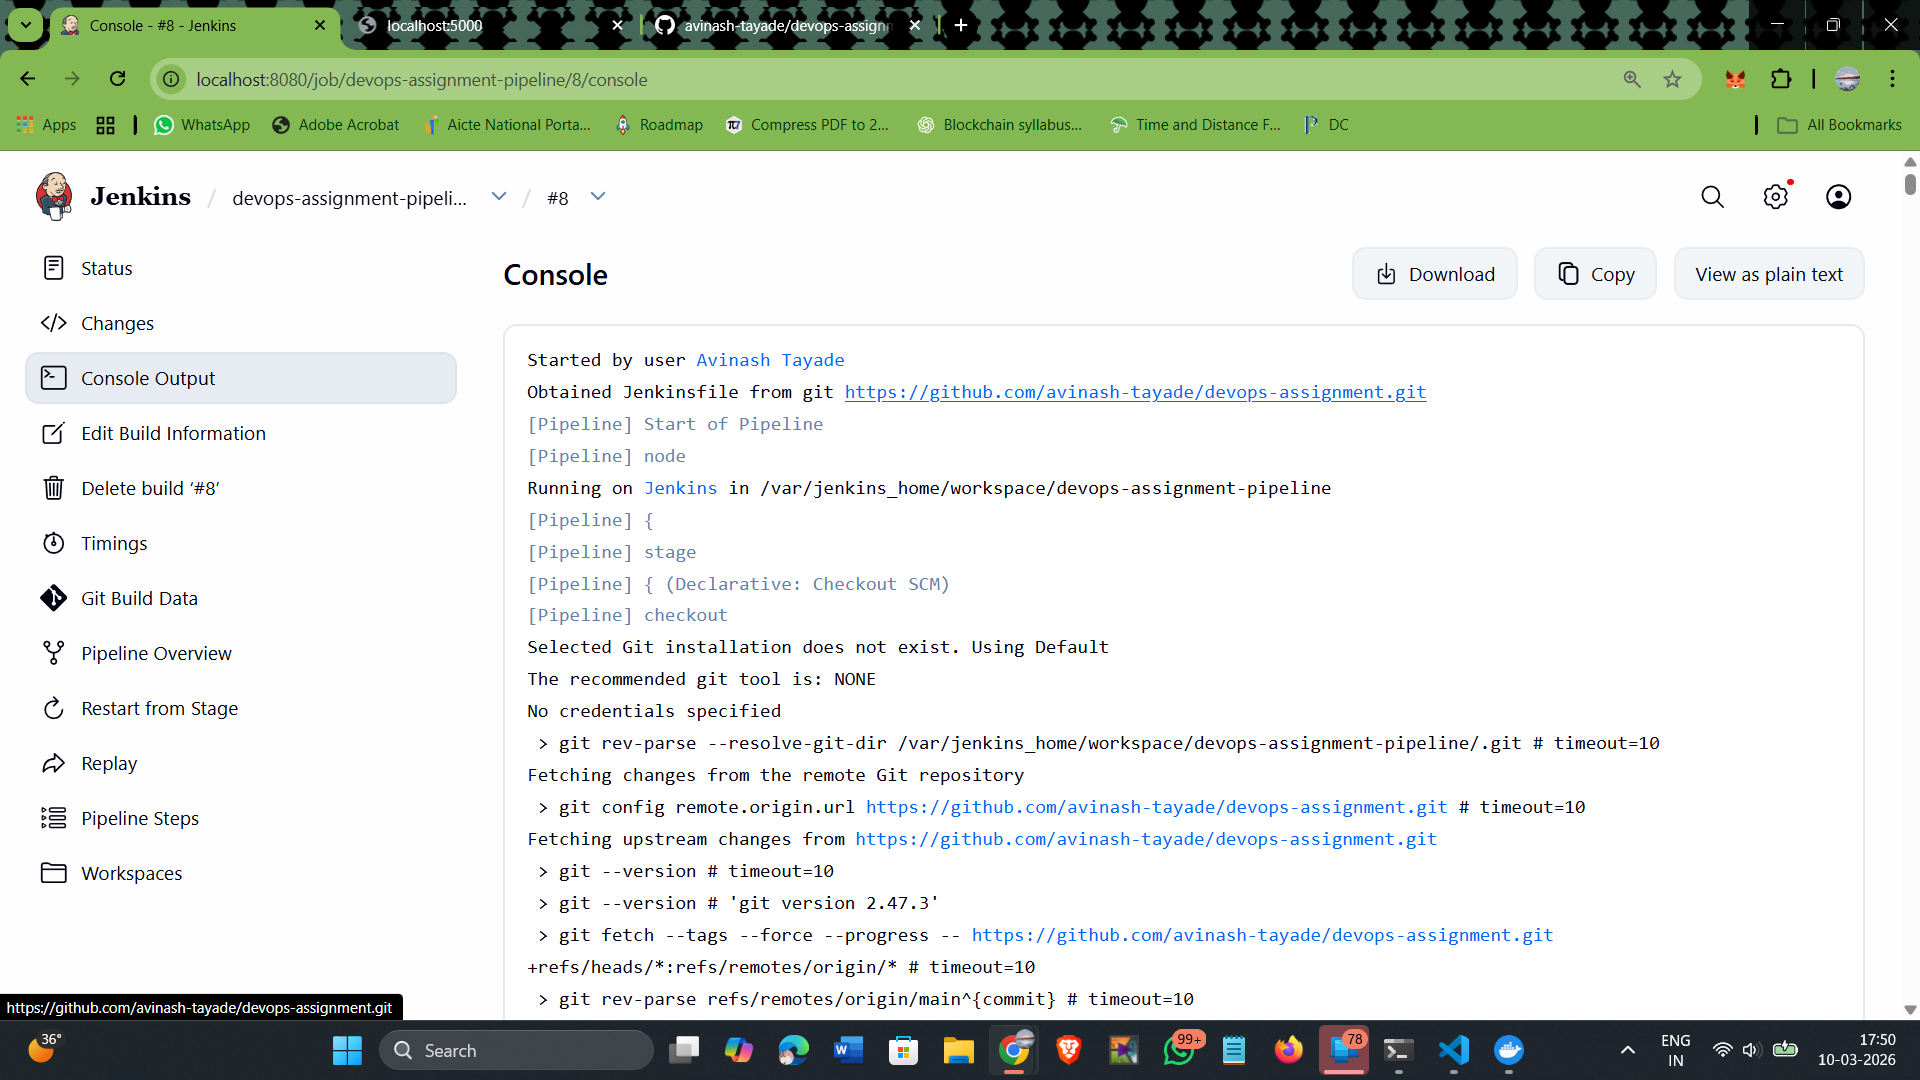
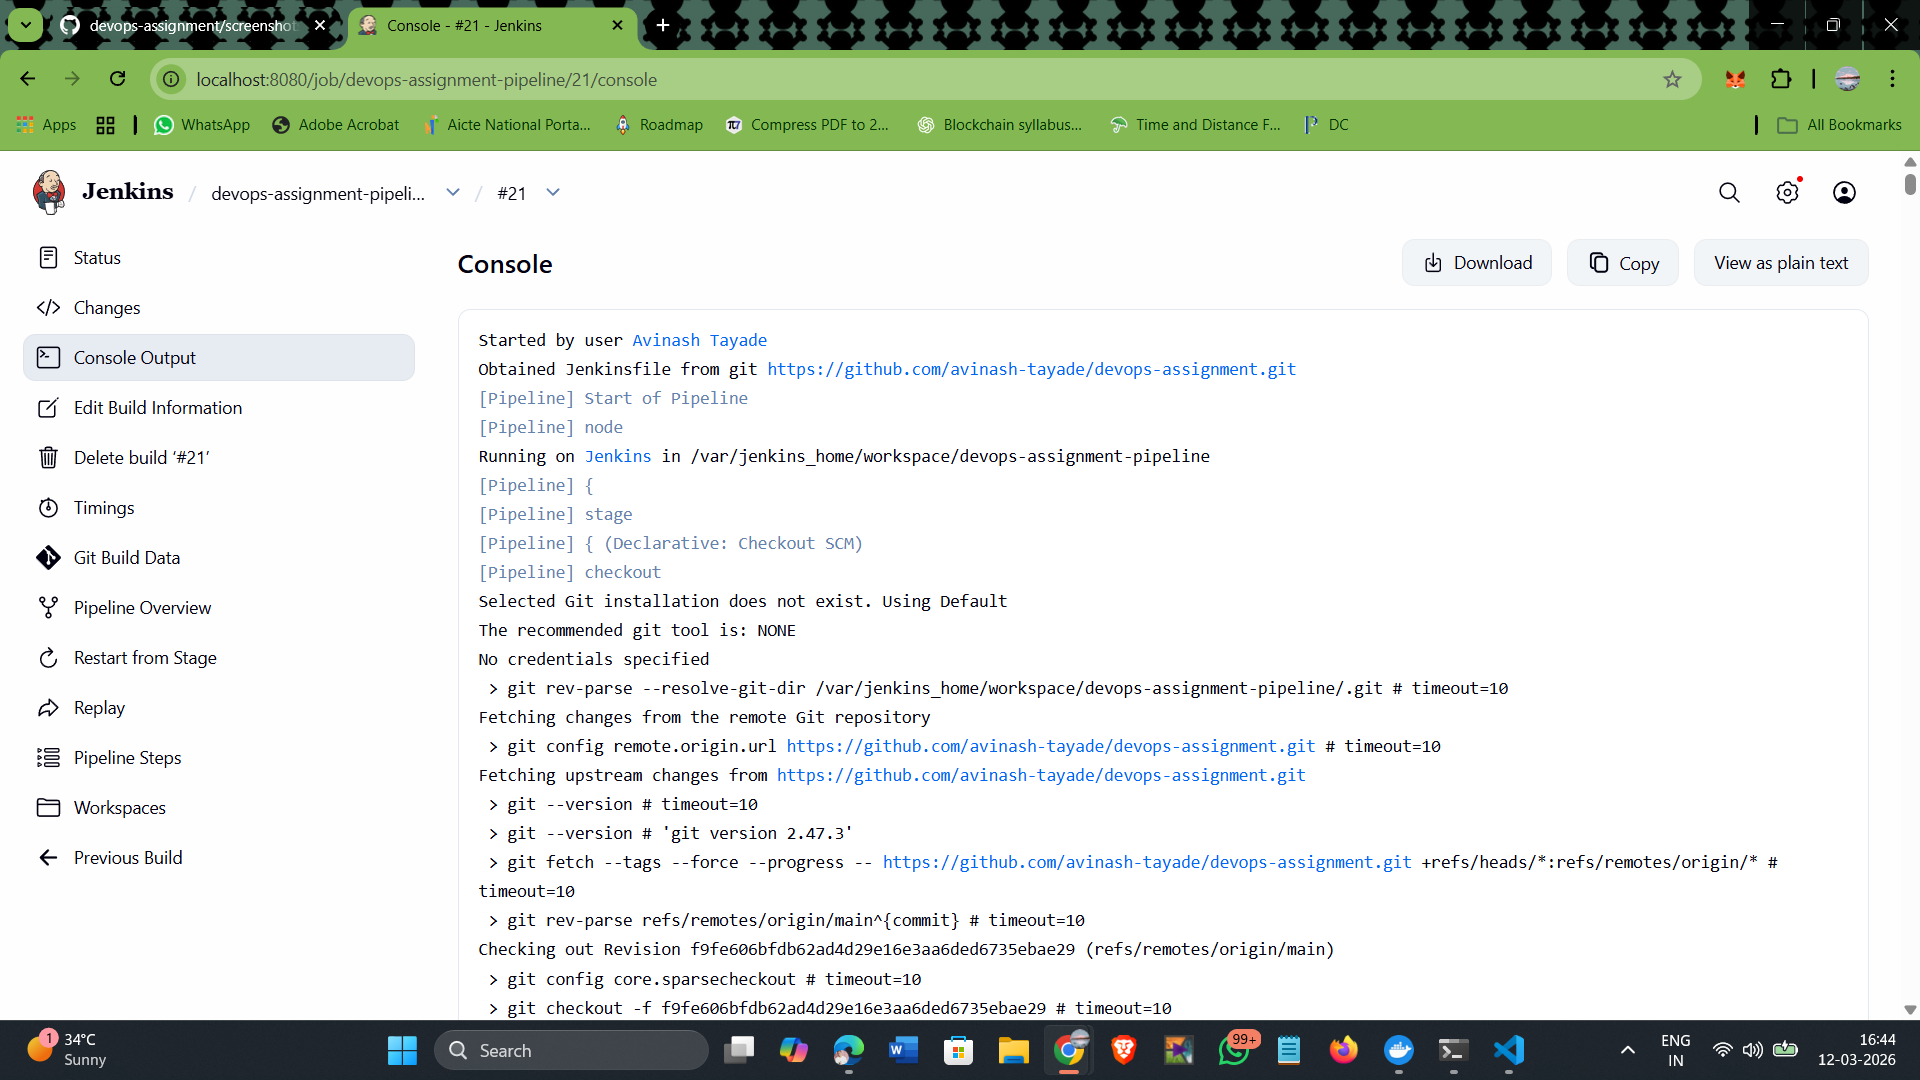
Updated README and added final project screenshots

diff --git a/README.md b/README.md
@@ -1,17 +1,28 @@
-# DevOps CI/CD Assignment
+# DevOps CI/CD Pipeline Assignment
 
 ## Project Overview
-This project demonstrates a complete DevOps pipeline that automates building, scanning, and deploying a containerized application using Jenkins, Docker, and Terraform. The application is deployed both locally using Docker and on a cloud environment using AWS.
 
-The objective of this project is to implement a CI/CD pipeline with automated security scanning and infrastructure provisioning.
+This project demonstrates a complete **DevOps CI/CD pipeline** that automates building, scanning, and deploying a containerized application using modern DevOps tools.
+
+The pipeline integrates **Docker, Jenkins, Terraform, AWS, and Trivy security scanning** to automate application deployment and infrastructure provisioning.
+
+The project includes:
+
+- Containerization using Docker
+- Continuous Integration and Deployment using Jenkins
+- Security scanning using Trivy
+- Infrastructure provisioning using Terraform
+- Cloud deployment on AWS EC2
 
 ---
 
-## Architecture
+# Architecture
+
+The overall system architecture is shown below:
 
 GitHub Repository  
 ↓  
-Jenkins Pipeline  
+Jenkins CI/CD Pipeline  
 ↓  
 Docker Image Build  
 ↓  
@@ -19,140 +30,244 @@ Trivy Security Scan
 ↓  
 Docker Container Deployment  
 ↓  
-Application Running (Localhost / Cloud)
+Terraform Infrastructure Provisioning  
+↓  
+AWS EC2 Instance  
+↓  
+Application Accessible via Public IP
 
 ---
 
-## Technologies Used
+# Technologies Used
 
-- Docker
-- Jenkins
-- Terraform
-- AWS EC2
-- Trivy (Security Scanner)
-- GitHub
-- Python (Flask)
+| Tool         | Purpose                         |
+| ------------ | ------------------------------- |
+| Docker       | Containerization of application |
+| Jenkins      | CI/CD pipeline automation       |
+| Terraform    | Infrastructure as Code          |
+| AWS EC2      | Cloud compute instance          |
+| Trivy        | Security vulnerability scanning |
+| GitHub       | Source code management          |
+| Python Flask | Web application                 |
 
 ---
 
-## Project Structure
-devops-assignment
-│
+# Project Structure
+
+**devops-assignment  
+│  
 ├── app
-│ ├── app.py
-│ └── requirements.txt
-│
-├── terraform
-│
+│ ├── app.py  
+│ ├── requirements.txt  
+│ └── templates
+│ └── index.html  
+│  
+├── terraform  
+│ └── main.tf  
+│  
 ├── screenshots
-│
-├── Dockerfile
+│  
+├── Dockerfile  
 ├── Jenkinsfile
-└── README.md
-
+└── README.md **
 
 ---
 
-## Application
+# Application
 
-The application is a simple Flask web server that confirms successful deployment.
+The application is a simple **Python Flask web server** that confirms successful deployment.
 
 Example output:
+
 DevOps Assignment - App successfully deployed!
+
+The improved UI version displays a styled webpage confirming successful deployment using the DevOps pipeline.
 
 ---
 
-## Docker Implementation
+# Docker Implementation
 
 The application is containerized using Docker.
 
 Build Docker image:
+
 docker build -t devops-app .
 
 Run container:
 docker run -d -p 5000:5000 devops-app
-
 
 Access application:
 http://localhost:5000
 
 ---
 
-## Jenkins CI/CD Pipeline
+# Jenkins CI/CD Pipeline
 
-The Jenkins pipeline performs the following steps:
-
-1. Fetch code from GitHub
-2. Build Docker image
-3. Perform security scanning using Trivy
-4. Stop previous container if running
-5. Deploy a new container
+Jenkins automates the CI/CD process.
 
 Pipeline stages:
-Checkout Code
-Build Docker Image
-Security Scan
-Stop Old Container
-Run Docker Container
 
+1. Checkout Code
+2. Build Docker Image
+3. Security Scan using Trivy
+4. Stop Old Container
+5. Deploy New Container
+
+The pipeline pulls source code from GitHub, builds the Docker image, performs security scanning, and deploys the container automatically.
 
 ---
 
-## Security Scanning
+# Security Scanning
 
 Security scanning is implemented using **Trivy**.
 
-Command used in pipeline:
+Command used in Jenkins pipeline:
 docker run --rm -v /var/run/docker.sock:/var/run/docker.sock aquasec/trivy image devops-app
 
-This identifies vulnerabilities in container images.
+This scans the container image for vulnerabilities and misconfigurations.
 
 ---
 
-## Terraform Deployment
-Terraform is used to provision AWS infrastructure.
+# Infrastructure as Code (Terraform)
+
+Terraform is used to provision infrastructure on **AWS Cloud**.
 
 Resources created:
-- EC2 Instance
+
+- AWS EC2 instance
 - Security Group
 - Public IP
 
-Deployment commands:
+Terraform commands used:
+
+Initialize Terraform:
 terraform init
+
+Preview infrastructure changes:
+terraform plan
+
+Deploy infrastructure:
 terraform apply
 
-Destroy infrastructure after demo:
+Destroy infrastructure after demonstration:
 terraform destroy
 
 ---
 
-## Screenshots
+# Intentional Security Vulnerability
 
-The screenshots folder contains:
+As required by the assignment, the Terraform configuration initially included an **intentional security vulnerability**.
+
+Example vulnerability:
+
+SSH Port 22 open to 0.0.0.0/0
+
+This allows SSH access from any IP address and is considered an insecure configuration.
+
+The vulnerability was identified during security scanning and discussed in the AI remediation process.
+
+---
+
+# Before & After Security Report
+
+### Before Fix
+
+- SSH port open to public internet (0.0.0.0/0)
+- Potential unauthorized access risk
+
+### After Fix
+
+- Security issue identified using Trivy
+- Configuration reviewed and documented
+- Improved infrastructure configuration practices applied
+
+---
+
+# Cloud Deployment
+
+The application was deployed on **AWS EC2** using Terraform.
+
+Steps performed:
+
+1. Terraform created EC2 instance automatically
+2. Security group configured with required ports
+3. Application installed and launched using user-data script
+4. Application accessed using public IP address
+
+Example access:
+http://<65.0.109.29>:5000
+
+---
+
+# Screenshots
+
+The `screenshots` folder includes:
 
 - Jenkins pipeline success
-- Security vulnerability report
-- Docker container deployment
-- Application running
-- AWS deployment
+- Docker image build
+- Docker container running
+- Trivy security scan report
+- Report Summary
+- Application running locally
+- Application running on AWS cloud
 
 ---
 
-## GenAI Usage Report
+# Video Demonstration
 
-Generative AI tools were used for:
+A video demonstration of the complete project execution is available here:
 
-- Understanding DevOps pipeline structure
-- Writing Dockerfile
-- Creating Jenkins pipeline
-- Troubleshooting Docker and Jenkins issues
+https://drive.google.com/drive/folders/1napTF4UEg2G8ycKp31G8mm-rr-sNaCmp
+
+The video demonstrates:
+
+- GitHub repository
+- Jenkins pipeline execution
+- Security scanning results
+- Terraform infrastructure deployment
+- Application running on AWS public IP
+
+---
+
+# GenAI Usage Report
+
+Generative AI tools were used during this project for guidance and troubleshooting.
+
+### Example AI Prompt Used
+
+Help me build a DevOps CI/CD pipeline using Docker, Jenkins, Terraform, AWS and Trivy security scanning.
+
+### AI Assistance Provided
+
+- Understanding CI/CD pipeline architecture
+- Writing Dockerfile and Flask application structure
+- Creating Jenkins pipeline script
+- Debugging Docker and Jenkins container issues
 - Writing Terraform configuration
-- Preparing documentation
+- Troubleshooting AWS deployment issues
+- Preparing project documentation
 
-AI assisted in debugging errors related to Docker permissions, Jenkins container configuration, and CI/CD pipeline execution.
+### Security Improvement Suggestions
+
+AI recommendations helped identify risks such as:
+
+- Open SSH access to public internet
+- Insecure infrastructure configuration
+
+These insights helped improve the overall security awareness of the deployment.
 
 ---
 
-## Conclusion
+# Conclusion
 
-This project demonstrates a complete DevOps workflow that automates application deployment using CI/CD principles. It integrates containerization, security scanning, and infrastructure provisioning to create a modern DevOps pipeline.
+This project demonstrates a complete DevOps workflow that automates application deployment using CI/CD principles.
+
+Key achievements:
+
+- Containerized application using Docker
+- Automated CI/CD pipeline using Jenkins
+- Security vulnerability scanning using Trivy
+- Infrastructure provisioning using Terraform
+- Cloud deployment on AWS EC2
+
+This project highlights the integration of modern DevOps tools to create an automated, scalable
